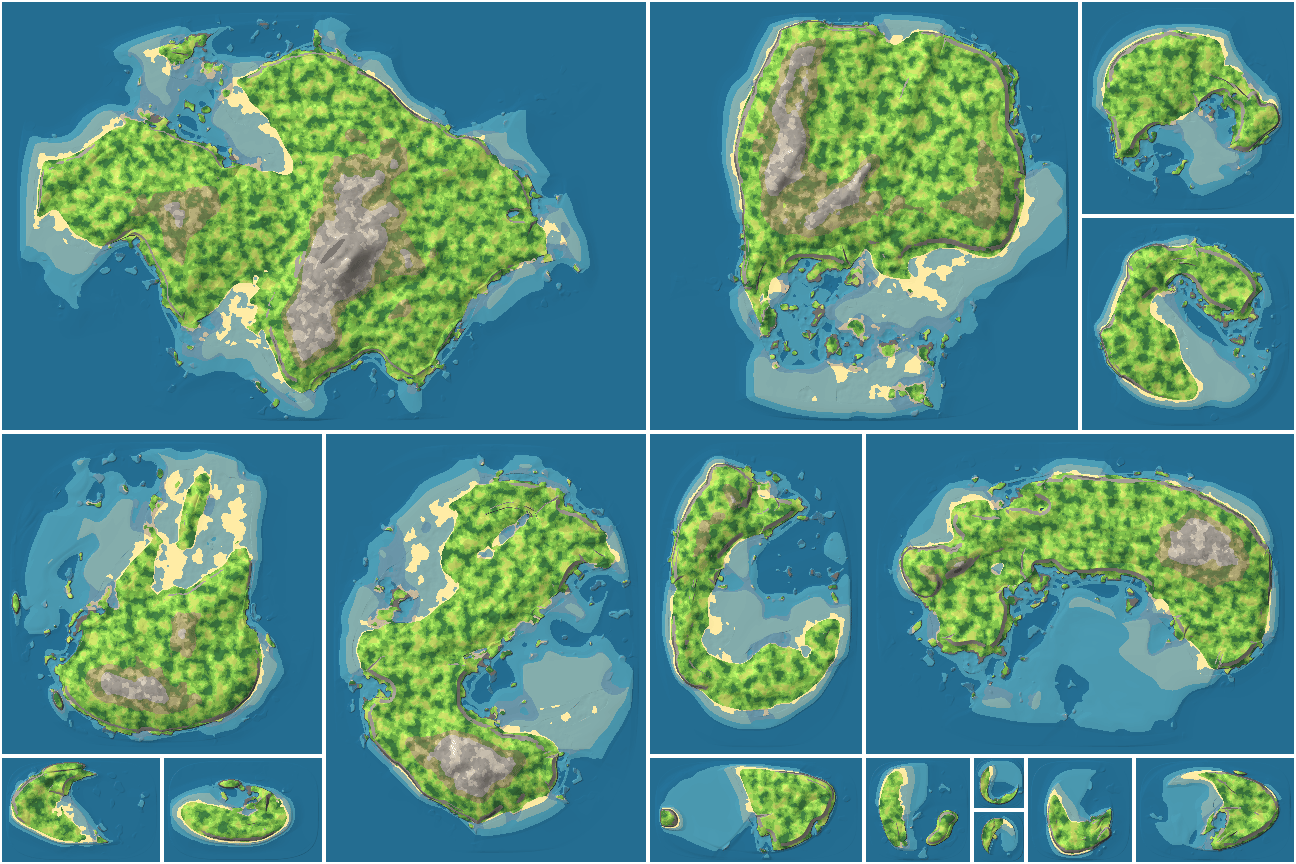
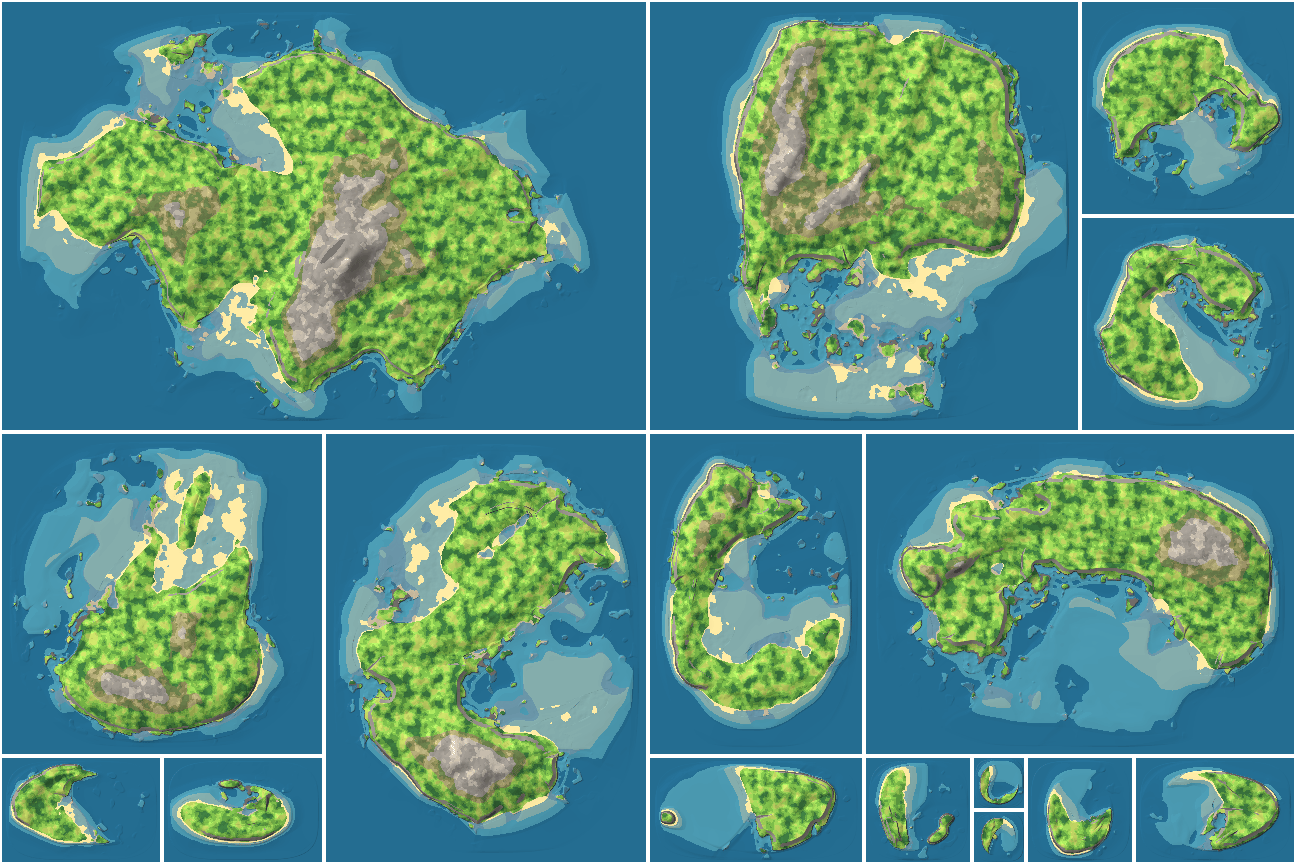
review cycle 1: drop the redundant second fitting round
The ceiling is applied downstream of everything the fit computes, and it
scales heights rather than subtracting from them, so it cannot move the
zero contour — there was no coastline to converge on and the second round
returned the first's numbers to the bit, for twice the noise sampling.
Construction at two kilometres goes 468 ms back to 220 ms.

The comments justifying that round claimed the opposite of what the code
did, as did the widened bisection bracket. Reverting the bracket also
fixes a size-continuity bug it introduced: below a kilometre the summit
curve has flat stretches, so a wide bracket let neighbouring map sizes
settle on scales two orders of magnitude apart.

The summit test asserted something arithmetic rather than a property — a
smooth minimum is always strictly under its ceiling, so the bound could
not fail. It now checks the summit stays near what its ground earned,
which can.

Records the one real limitation found: whether water reaches the frame is
a yes or no, so the field steps as the map grows, and a lagoon silting off
can add its whole width to every distance behind it at once.

diff --git a/src/terrain.rs b/src/terrain.rs
@@ -270,11 +270,16 @@ const LOWLAND_FLOOR: f32 = 10.0;
 /// stretched copy of the same one.
 ///
 /// This is the dial worth turning. It fixes [`PEAK_GRADE`], and with it how
-/// tall a given map's mountains come out: a kilometre-square map's interior
-/// gets about a hundred and fifty metres from the sea, so at this reach its
-/// summits land around eighty or ninety metres rather than the full height,
-/// and only maps of a kilometre and a half or more still reach the snow.
-/// Shortening it gives every size taller mountains and steeper country.
+/// tall a given map's mountains come out. A kilometre-square map's interior
+/// stands ninety to a hundred and fifty metres from the open sea, depending on
+/// the seed, so at this reach its summits come out between about fifty-five
+/// and ninety metres rather than the full height — a little under seventy on
+/// average. Snow is rarer still: the tallest ground on any seed measured was
+/// 88 m at a kilometre, 108 m at a kilometre and a half and 113 m at two, so
+/// nothing but the largest maps crosses [`SNOW_LINE`] outright and what snow
+/// appears below that is [`SNOW_WANDER`] carrying the line down to meet a
+/// summit. Shortening this gives every size taller mountains and steeper
+/// country.
 ///
 /// It is also a frankly generous number. A summit at [`HEIGHT_SCALE`] this far
 /// from the sea is a climb of about thirty degrees held for the whole way,
@@ -688,17 +693,18 @@ pub struct TerrainGenerator {
     range_ceiling: GridField,
     calibration: Calibration,
     coast: CoastDistance,
-    /// The waterline the mountains are held back from. Empty until a first
-    /// pass has found a coastline, which leaves [`TerrainGenerator::inland`]
-    /// reading 1 everywhere — see the two rounds in [`TerrainGenerator::new`].
+    /// The waterline the mountains are held back from. Empty until the fit in
+    /// [`TerrainGenerator::new`] has found a coastline to measure; nothing
+    /// asks for a height before then, and an empty field reads infinity
+    /// everywhere in any case, which is the ceiling declining to bind rather
+    /// than binding on a measurement it has not made.
     ///
-    /// Deliberately *not* [`TerrainGenerator::coast`], even though the two
-    /// measure nearly the same thing. The coast field is remeasured once the
-    /// ranges have moved, because the shaping has to meet the waterline the
-    /// map actually ends up with; this one has to stay exactly as it was when
-    /// [`TerrainGenerator::fit_range_height`] read it, or the summits are
-    /// fitted against one field and drawn against another and land wherever
-    /// the difference leaves them.
+    /// Deliberately *not* [`TerrainGenerator::coast`], even though the two are
+    /// measured from the same grid a moment apart. They differ in what counts
+    /// as water: this one is flooded in from the frame, so the lagoons and
+    /// sounds that fill the interior of these maps count as ground rather than
+    /// as a coast a range has to climb from. See
+    /// [`CoastDistance::from_open_sea`].
     inland: CoastDistance,
     /// How much taller this seed's coastal band is than the one the constants
     /// were tuned on. See [`TerrainGenerator::fit_coast_scale`].
@@ -739,13 +745,20 @@ const CEILING_KNEE: f32 = 6.0;
 /// worn-down headland looks like.
 fn under_ceiling(h: f32, ceiling: f32) -> f32 {
     // Nothing to do below the waterline — the ceiling is about how high land
-    // may stand, and depth is the calibration's business. And with no field
-    // measured yet the ceiling is infinite, which is the first round of
-    // [`TerrainGenerator::new`] asking to be left alone.
+    // may stand, and depth is the calibration's business.
+    //
+    // The second half of that is belt and braces rather than arithmetic. An
+    // infinite ceiling already falls out of the formula as `h` untouched, and
+    // it should not arise anyway: [`TerrainGenerator::inland`] only reads
+    // infinite before it has a field to measure, and by the time anything asks
+    // for a height it has one. What the check is really for is the not-a-
+    // number a distance field with no sea in it at all would blur its way to.
     if h <= 0.0 || !ceiling.is_finite() {
         return h;
     }
-    let ratio = h / ceiling.max(1e-3);
+    // No guard on the divisor: the ceiling is [`CLIFF_HEIGHT`] plus a distance
+    // that cannot be negative, so it is never near zero.
+    let ratio = h / ceiling;
     h / (1.0 + ratio.powf(CEILING_KNEE)).powf(1.0 / CEILING_KNEE)
 }
 
@@ -805,25 +818,33 @@ impl TerrainGenerator {
         let tolerance = generator.half_extent * 0.1;
         generator.drift_excess = centre - centre.clamp(-tolerance, tolerance);
 
-        // Fitted twice, because where the mountains go now depends on where
-        // the water is and where the water is depends on the mountains.
+        // One round of fitting, and the ceiling laid over what it produced.
         //
-        // The first round has no coastline yet, so [`TerrainGenerator::inland`]
-        // reads 1 everywhere and it is exactly the generator that came before
-        // this one. Its only job is to say roughly where this seed's sea is.
-        // That answer is then frozen — it is what the ranges are held back
-        // from — and everything is fitted again against it.
+        // It is worth saying why this is not a loop, because it looks like it
+        // ought to be one: the ceiling changes the landform, the landform
+        // decides where the water is, and the water is what the ceiling is
+        // measured from. But nothing inside [`TerrainGenerator::fit`] reads
+        // the ceiling — it is applied in [`TerrainGenerator::landform`],
+        // strictly downstream of everything fitted here, and deliberately so;
+        // see the note in [`TerrainGenerator::fit_range_height`]. So the
+        // coastline this measures is the one the fit produced, and fitting
+        // again against it would return the same numbers to the bit. A second
+        // round was tried and did exactly that, for twice the noise sampling.
         //
-        // Two rounds and not more. Holding the massif back from the shore
-        // moves ground that was well above sea level, and mostly leaves the
-        // ground near the waterline where it was, so the coastline the second
-        // round draws is close to the first's. A third would measure a field
-        // that had barely moved, and would pay a full sampling of the noise
-        // for a change nobody could see.
+        // Nor is there a coastline to converge on even in principle. The
+        // ceiling scales a height rather than subtracting from it, and a
+        // positive height stays positive however hard it binds — so it moves
+        // every contour on the map except the one at zero, which is the only
+        // one any of this is measured from. Whatever it does to the mountains,
+        // the waterline it leaves is the waterline it was handed.
+        //
+        // The order below is load-bearing all the same. `inland` is the one
+        // thing [`TerrainGenerator::ceiling`] reads, and the coast-band fit is
+        // the one step here that asks for a finished height — it walks the
+        // waterline reading [`TerrainGenerator::normal`] — so it has to run
+        // against the ceiling rather than before it exists.
         let raw = generator.fit(config, &targets);
         generator.inland = CoastDistance::from_open_sea(&raw, &generator.calibration);
-
-        let raw = generator.fit(config, &targets);
         generator.fit_coast_scale(&raw);
         generator
     }
@@ -850,23 +871,13 @@ impl TerrainGenerator {
     /// The most height this ground may carry, in metres: [`PEAK_GRADE`] for
     /// every metre it stands back from the sea.
     ///
-    /// [`TerrainGenerator::inland`] decides where a range *wants* to be, which
-    /// is not the same as stopping it standing where it should not. A massif
-    /// the mask made strong can still beat a weaker one with far more room
-    /// behind it — its share of the map is many times the other's, and being
-    /// held back near the water costs it less than being feeble costs the
-    /// other. Then the height fit, which has to put a summit somewhere,
-    /// puts it there. Measured on the finished maps that was the common case
-    /// rather than the rare one: summits standing at one and a half to two
-    /// metres of height per metre of ground back from the sea, against the
-    /// half-metre the rest of this is written around.
+    /// A ceiling point by point, and nothing else — the literal form of the
+    /// thing being claimed. Ground can only climb so fast on the way inland,
+    /// so how far inland it is bounds how high it is. Where there is room this
+    /// never binds and the landscape is whatever the noise made it; on a
+    /// headland it binds hard, and the ground there is low because there is
+    /// nowhere for it to have climbed from.
     ///
-    /// So the grade is also applied as a ceiling, point by point, which is the
-    /// literal form of the thing being claimed — ground can only climb so fast
-    /// on the way inland, so how far inland it is bounds how high it is. Where
-    /// there is room this never binds and the landscape is whatever the noise
-    /// made it; on a headland it binds hard, and the ground there is low
-    /// because there is nowhere for it to have climbed from.
     /// Offset by [`CLIFF_HEIGHT`], because ground at the waterline is not
     /// obliged to be at the waterline: a coast may stand a cliff tall without
     /// having climbed from anywhere, which is exactly what the coastal shaping
@@ -875,6 +886,17 @@ impl TerrainGenerator {
     /// tens of metres of water — and it takes enough off the middle of the
     /// land to undo [`LOWLAND_FLOOR`] and leave the map the drowned sandflat
     /// the calibration went to trouble to rule out.
+    ///
+    /// Biasing the massif *towards* the interior instead was tried first, and
+    /// dropped. A soft preference does not stop anything: a massif the mask
+    /// made strong still beats a weaker one with far more room behind it —
+    /// being held back near the water costs it less than being feeble costs
+    /// the other — and the height fit, which has to put a summit somewhere,
+    /// then puts it exactly where the preference was trying to avoid. Measured
+    /// on the finished maps that was the common case rather than the rare one:
+    /// summits standing at one and a half to two metres of height per metre of
+    /// ground back from the sea, against the half-metre the rest of this is
+    /// written around. A limit does what a preference could not.
     fn ceiling(&self, wx: f32, wz: f32) -> f32 {
         CLIFF_HEIGHT + PEAK_GRADE * self.inland.metres(wx, wz)
     }
@@ -1020,23 +1042,36 @@ impl TerrainGenerator {
         let target = HEIGHT_SCALE * targets.relief;
 
         // Two brackets to start from. The lower is well under anything that
-        // produces mountains and the upper well over it, so the summit height
-        // is bracketed on every seed whatever its massif does.
+        // produces mountains; the upper is a limit as much as a bracket, and
+        // that wants explaining.
         //
-        // The upper end has room to spare on purpose. What a seed needs here
-        // depends on how much of its massif [`TerrainGenerator::inland`] left
-        // it: a seed whose mask already sat well inland is barely touched,
-        // while one whose dome ran out to the coast keeps only its inland
-        // shoulder — a fraction of the field, and squared — and needs several
-        // times the scale to stand a summit on it. A ceiling of 12 was enough
-        // before the ranges were held back from the water and is not now; a
-        // seed that reaches the ceiling silently gets half the mountain it was
-        // fitted for.
-        let (mut lo, mut hi) = (0.05f32, 200.0f32);
-        // Bisection rather than a secant: the curve is monotone but its shape
-        // varies by seed, and a run of halvings costs almost nothing here and
-        // cannot be thrown off by a flat stretch the way a secant can.
-        for _ in 0..24 {
+        // From a kilometre up this is a genuine solve and the answer is small:
+        // under 4 on every seed measured, and under 1 by two kilometres. Below
+        // that the curve stops being one a solve can follow. The calibration
+        // refits the mapping at every trial, so past a point pushing the massif
+        // harder stops raising the summit in metres at all — on one 512-metre
+        // seed the summit read 54.1 m at every scale from 1 to 200 — and far
+        // enough past it the massif swamps the quantiles the mapping is
+        // anchored on and the whole thing breaks upward, the same seed reading
+        // 1285 m at a scale of ten thousand. Others turn over instead, rising
+        // to a maximum part way and falling back. On any of them no scale
+        // reaches the target and the bisection runs to whatever ceiling it was
+        // given, so what that ceiling is chooses the answer outright.
+        //
+        // Which is the case for keeping it low, and it costs nothing to. The
+        // maps either ceiling produces are indistinguishable — the calibration
+        // absorbing the scale is the same thing that made the curve go flat —
+        // so the only difference is the number a degenerate seed comes away
+        // with. At 200 that number lands two orders of magnitude off its
+        // neighbours': one seed solved to 1.9 at 640 m, 200 at 768 m and 1.4 at
+        // a kilometre. Since map size is a dial the player turns, a fitted
+        // number that jumps like that between neighbouring sizes is worth not
+        // having, even where the picture survives it.
+        let (mut lo, mut hi) = (0.05f32, 12.0f32);
+        // Bisection rather than a secant: as above the curve is not reliably
+        // monotone, and a run of halvings costs almost nothing here and cannot
+        // be thrown off by a flat stretch the way a secant can.
+        for _ in 0..18 {
             let mid = 0.5 * (lo + hi);
             if peak_at(mid) < target {
                 lo = mid;
@@ -1965,6 +2000,20 @@ impl CoastDistance {
     /// On a two-kilometre map that was the difference between one range and
     /// several: the interior massifs each had inland water within a hundred
     /// metres and were held down as if they stood on a beach.
+    ///
+    /// Known limitation, and the reason to look here first if map size ever
+    /// misbehaves: whether a body of water reaches the frame is a yes or no,
+    /// so this field steps as the map grows. A lagoon joined to the sea by one
+    /// cell of a strait counts wholly as sea; widen the map a little, the
+    /// strait silts up, and the same lagoon counts wholly as ground — and
+    /// every point behind it gains the whole width of the lagoon in distance
+    /// at once. Measured on one seed over 128-metre steps of size, the largest
+    /// open-sea distance on the map went 101, 131, 288, 320, 340 m: a jump of
+    /// 157 m for one step, which took the ceiling over that region from about
+    /// 85 m to about 175 m and turned a headland into a range. Softening it
+    /// means giving up the binary — weighting each pool by how much sea it
+    /// really connects to, or blending this field with
+    /// [`CoastDistance::from_raw`] — which is a redesign rather than a tweak.
     fn from_open_sea(raw: &GridField, calibration: &Calibration) -> Self {
         let (nx, nz) = raw.dims;
         let mut sea = vec![false; raw.cells.len()];
@@ -2579,12 +2628,13 @@ mod tests {
         // whose land is broad keeps most of the fitted height and one whose
         // land is all coast keeps less.
         //
-        // So the constant across seeds is not the summit any more. It is the
-        // grade: however tall a map's highest ground comes out, it stands back
-        // from the water in proportion. That is the property worth holding,
-        // and it is the one the old fixed-height test cannot express — it
-        // passed happily on a seed with a hundred and twenty metres of rock
-        // fifty metres from the sea.
+        // So there is no constant across seeds any more — not the summit, and
+        // not the grade either, which runs over a fair spread depending on how
+        // close a seed's massif happens to fall to its best ground. What holds
+        // is weaker and worth more: a summit stands within reach of what its
+        // own ground has earned, both ways. That is the property the old
+        // fixed-height test could not express — it passed happily on a seed
+        // with a hundred and twenty metres of rock fifty metres from the sea.
         for seed in [20_040_112u32, 1, 7, 99, 12_345, 808, 2_024, 31_337] {
             let (config, gen) = generator(8, 8, seed);
             let half = config.half_extent();
@@ -2602,14 +2652,29 @@ mod tests {
                 }
             }
 
-            // Never over what that much ground has earned — the ceiling doing
-            // its job. A little slack, because the summit is looked for on a
-            // coarser grid than the distance field is drawn on.
+            // Most of what that ground has earned — the ceiling being what
+            // decides the summit, rather than a bound so far above the
+            // landscape that it never comes into it.
+            //
+            // Only the lower half of that is worth asserting, and it is worth
+            // saying why the other half is missing. `peak <= earned` is not a
+            // property of these maps but arithmetic: `earned` here is the very
+            // ceiling [`under_ceiling`] applied at this point, and a smooth
+            // minimum is strictly under its ceiling for any height above the
+            // waterline. An assertion that cannot fail tests nothing.
+            //
+            // What *can* fail is the summit falling away from its ceiling.
+            // That is the coupling worth holding: [`INLAND_REACH`] fixes
+            // [`PEAK_GRADE`], and if the reach were lengthened much further
+            // than the massif can build against, every map would sit well
+            // below a ceiling that had stopped meaning anything. Measured, the
+            // eight seeds run from 0.57 to 0.96 of their ceiling.
             let earned = CLIFF_HEIGHT + PEAK_GRADE * room;
             assert!(
-                peak <= earned * 1.05,
-                "seed {seed} peaked at {peak:.0} m only {room:.0} m from the sea, \
-                 where the ground has earned {earned:.0} m"
+                peak > earned * 0.4,
+                "seed {seed} peaked at {peak:.0} m with {room:.0} m of ground behind it, \
+                 well under the {earned:.0} m that has earned — is the ceiling still \
+                 what decides a summit?"
             );
             assert!(
                 peak > MOUNTAIN_HEIGHT,
@@ -2671,9 +2736,18 @@ mod tests {
         // nothing any coast does — so what is worth guarding is that several
         // ranges are real mountains, not that they are all nearly as tall as
         // each other.
-        // Over the whole seed list rather than one seed, which is what buys
-        // back the strength given up by reading against the lower line.
-        for seed in [20_040_112u32, 1, 7, 99, 12_345, 808, 2_024, 31_337] {
+        // Counted over the whole seed list and not seed by seed, which is what
+        // buys back the strength given up by reading against the lower line.
+        // A per-seed floor of three has no margin left in it: measured, the
+        // eight seeds get 3, 3, 4, 4, 3, 7, 3, 5 summits, so three of them sit
+        // exactly on such a bar and any tuning that costs one seed one summit
+        // fails the test without the maps having got worse. The total has room
+        // to move — thirty-two against a bar of twenty-four — while still
+        // catching the thing this is really about, which is a big map coming
+        // out as one mountain and a lot of lumps.
+        let seeds = [20_040_112u32, 1, 7, 99, 12_345, 808, 2_024, 31_337];
+        let mut total = 0;
+        for seed in seeds {
             let config = MapConfig::square(2048, seed);
             let gen = TerrainGenerator::new(&config);
             let half = config.half_extent();
@@ -2703,12 +2777,23 @@ mod tests {
                 }
             }
 
+            // Two is the floor for a map this size on its own: one summit is
+            // the failure this test was written for.
             assert!(
-                peaks.len() >= 3,
-                "seed {seed} got only {} summits clear of {MOUNTAIN_HEIGHT} m",
+                peaks.len() >= 2,
+                "seed {seed} got only {} summit clear of {MOUNTAIN_HEIGHT} m",
                 peaks.len()
             );
+            total += peaks.len();
         }
+
+        assert!(
+            total >= 24,
+            "{} summits clear of {MOUNTAIN_HEIGHT} m over {} seeds — a big map is \
+             supposed to get several each",
+            total,
+            seeds.len()
+        );
     }
 
     #[test]
@@ -3407,6 +3492,28 @@ mod bench {
                  bare-rock share and median slope {rocky:?}  \
                  land the coast reshapes {:.0}%  {rocks} offshore rocks  {examples:?}",
                 reshaped as f32 / land.max(1) as f32 * 100.0,
+            );
+        }
+    }
+
+    /// Cost of fitting a generator, which is the whole of a map's loading time
+    /// before any mesh is built.
+    ///
+    /// Worth watching, and worth its own bench because nothing else here would
+    /// show it: it is one call, it happens once, and it is quietly quadratic in
+    /// map size — it samples the noise over the whole map on a fixed grid. A
+    /// second round of fitting was once added by mistake and doubled this, with
+    /// nothing in the maps or the tests to say so.
+    #[test]
+    #[ignore]
+    fn generator_cost() {
+        for metres in [512u32, 1024, 2048, 4096] {
+            let start = Instant::now();
+            let generator = TerrainGenerator::new(&MapConfig::square(metres, 1));
+            let elapsed = start.elapsed();
+            println!(
+                "{metres:5} m  {elapsed:>8.0?}  range_gain {:.2}",
+                std::hint::black_box(&generator).range_gain
             );
         }
     }
